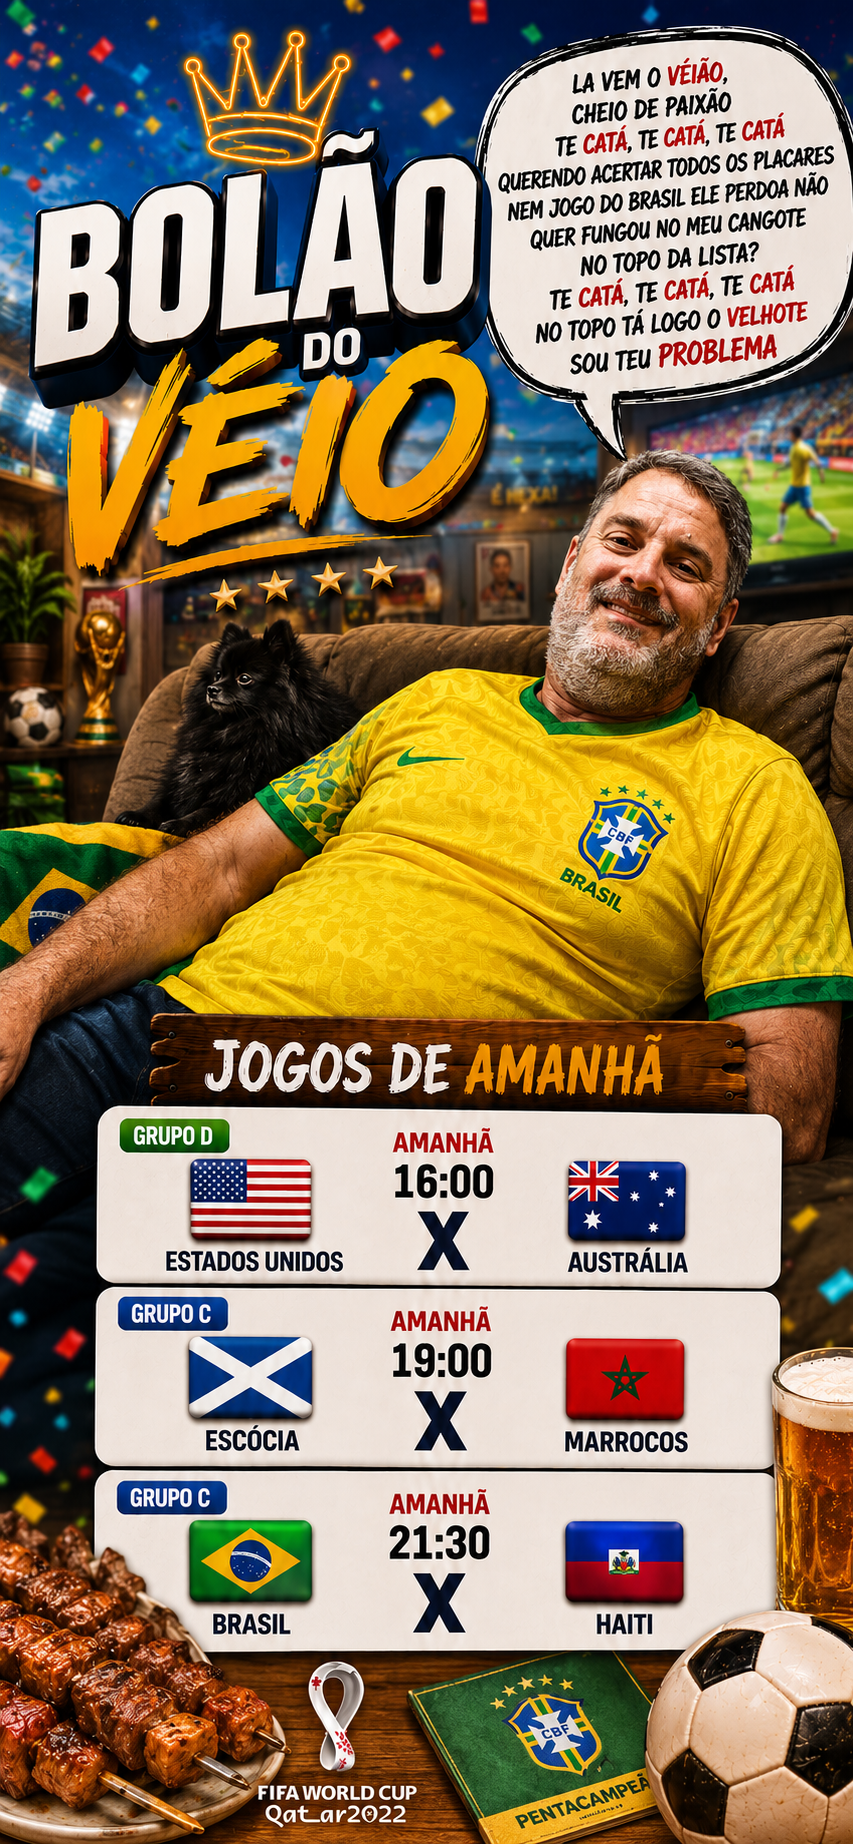
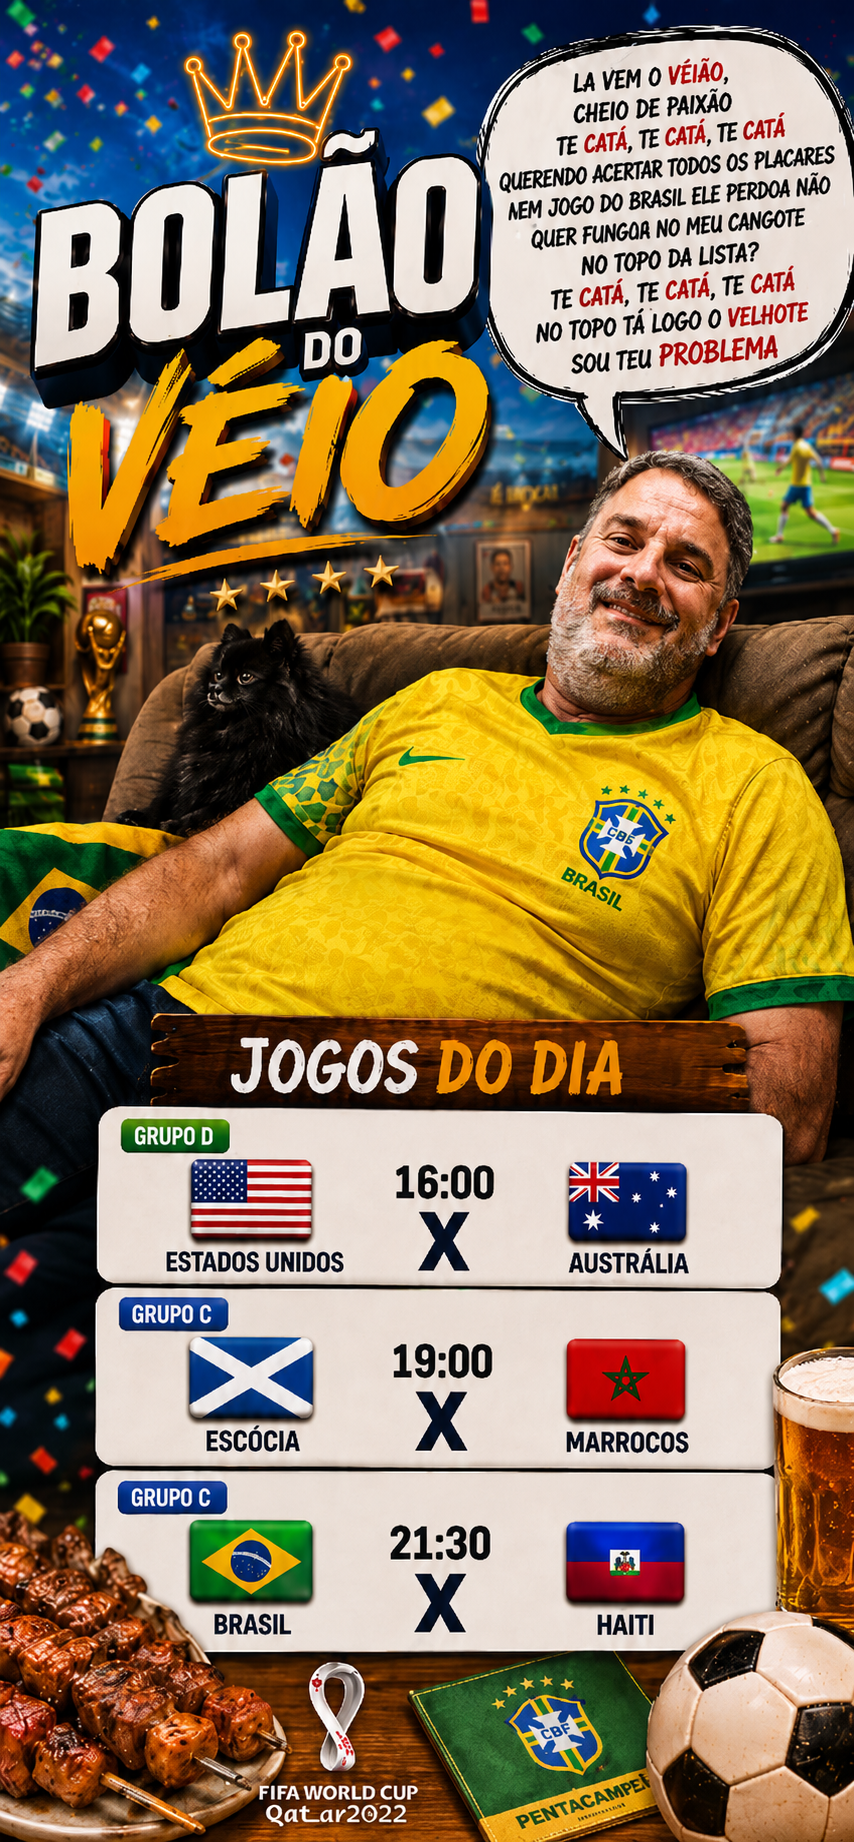
Forçando atualização das apostas

diff --git a/dados/resultados.js b/dados/resultados.js
@@ -44,10 +44,10 @@ const RESULTADOS = {
     24: { casa: 1, fora: 3 }, // Uzbequistão x Colômbia
     
     // 18/06/2026 - Fase de Grupos
-    25: { casa: 0, fora: 1 }, // África do Sul x República Tcheca
-    // 26: { casa: 0, fora: 0 }, // México x Coreia do Sul
-    // 27: { casa: 0, fora: 0 }, // Canadá x Catar
-    // 28: { casa: 0, fora: 0 }, // Bósnia e Herzegovina x Suíça
+    25: { casa: 1, fora: 1 }, // África do Sul x República Tcheca
+    26: { casa: 1, fora: 0 }, // México x Coreia do Sul
+    27: { casa: 6, fora: 0 }, // Canadá x Catar
+    28: { casa: 1, fora: 4 }, // Bósnia e Herzegovina x Suíça
     
     // 19/06/2026 - Fase de Grupos
     // 29: { casa: 0, fora: 0 }, // Estados Unidos x Austrália